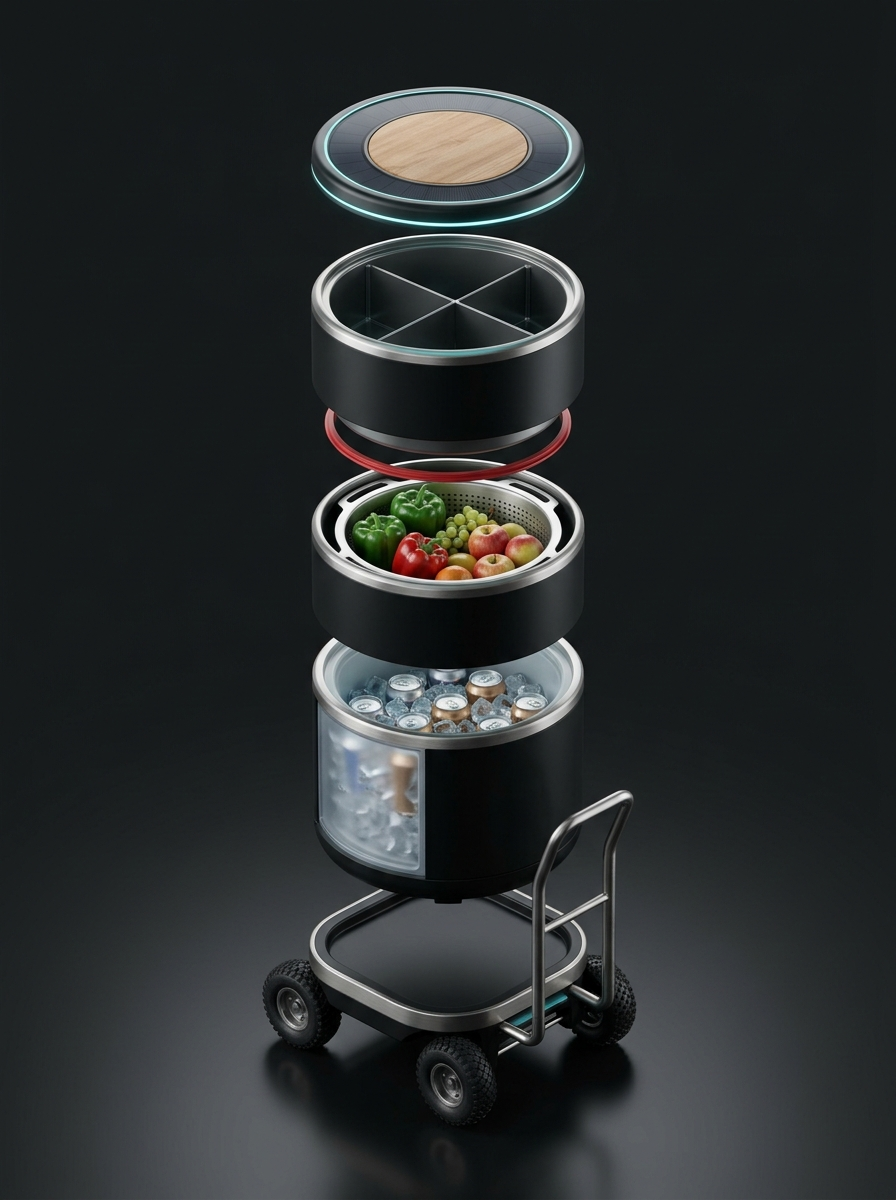
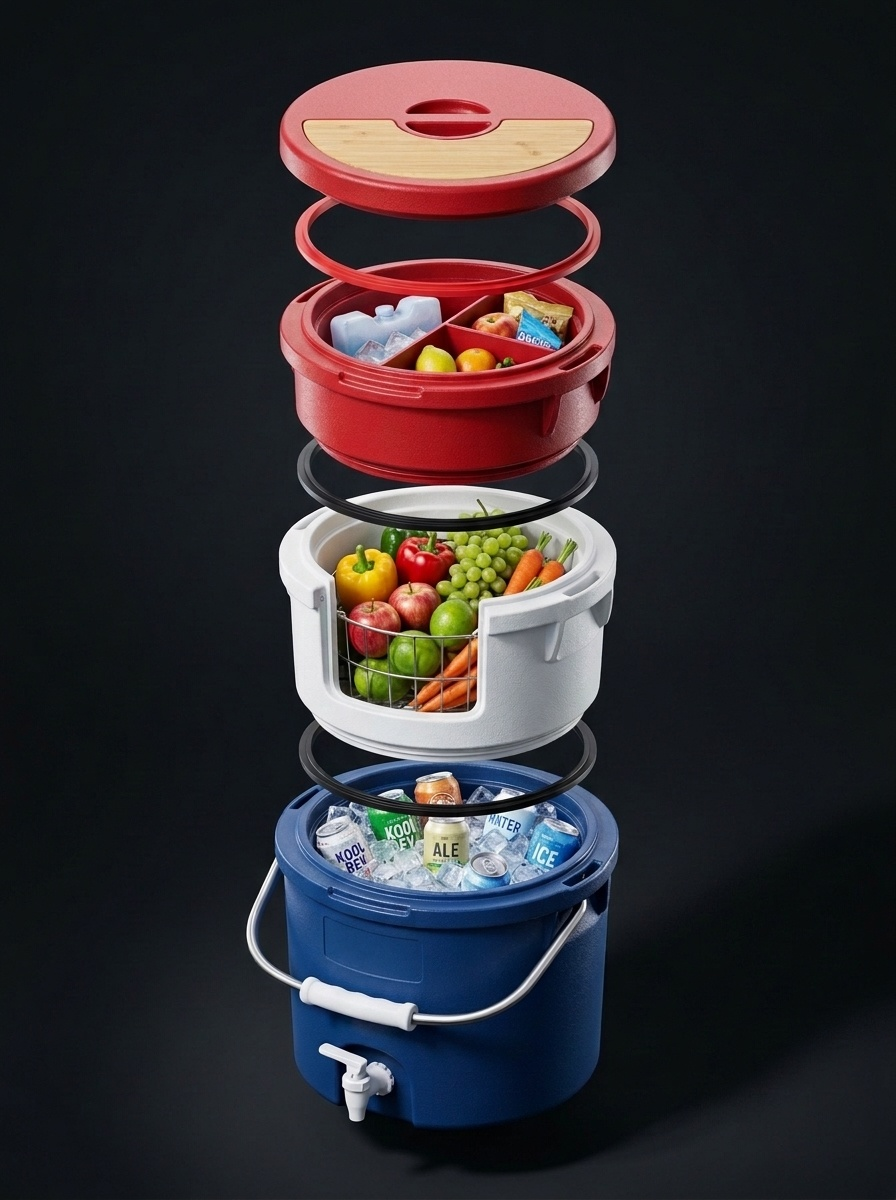
Update exploded views to plastic Red, White & Blue and remove excess blank space after stacking section

diff --git a/index.html b/index.html
@@ -545,10 +545,15 @@
        ========================================================================== */
     .scroll-stack-runway {
       position: relative;
-      height: 220vh;
+      height: 130vh;
       background: radial-gradient(circle at 50% 25%, #0b1122 0%, #030508 80%);
       border-top: 1px solid rgba(255, 255, 255, 0.06);
       border-bottom: 1px solid rgba(255, 255, 255, 0.06);
+      margin-bottom: 0;
+    }
+
+    #thermodynamics {
+      padding-top: clamp(28px, 4vw, 54px);
     }
 
     .scroll-stack-sticky {
@@ -4981,16 +4986,14 @@
         }
       }
 
-      // Early trigger calculation
+      // Early trigger calculation calibrated for seamless section transition
       function calcStackScrollProgress() {
         if (!stackRunway) return 0;
         const rect = stackRunway.getBoundingClientRect();
-        // Start triggering as soon as the top enters 75% down the viewport (early trigger)
-        const triggerStart = window.innerHeight * 0.75;
-        const triggerEnd = - (stackRunway.offsetHeight - window.innerHeight);
-        const totalDistance = triggerStart - triggerEnd;
-        if (totalDistance <= 0) return 0;
-
+        // Start triggering as soon as top enters 70% of viewport
+        const triggerStart = window.innerHeight * 0.70;
+        const maxScroll = Math.max(1, stackRunway.offsetHeight - window.innerHeight);
+        const totalDistance = triggerStart + maxScroll;
         const currentDist = triggerStart - rect.top;
         const p = Math.max(0, Math.min(1, currentDist / totalDistance));
         return p;
